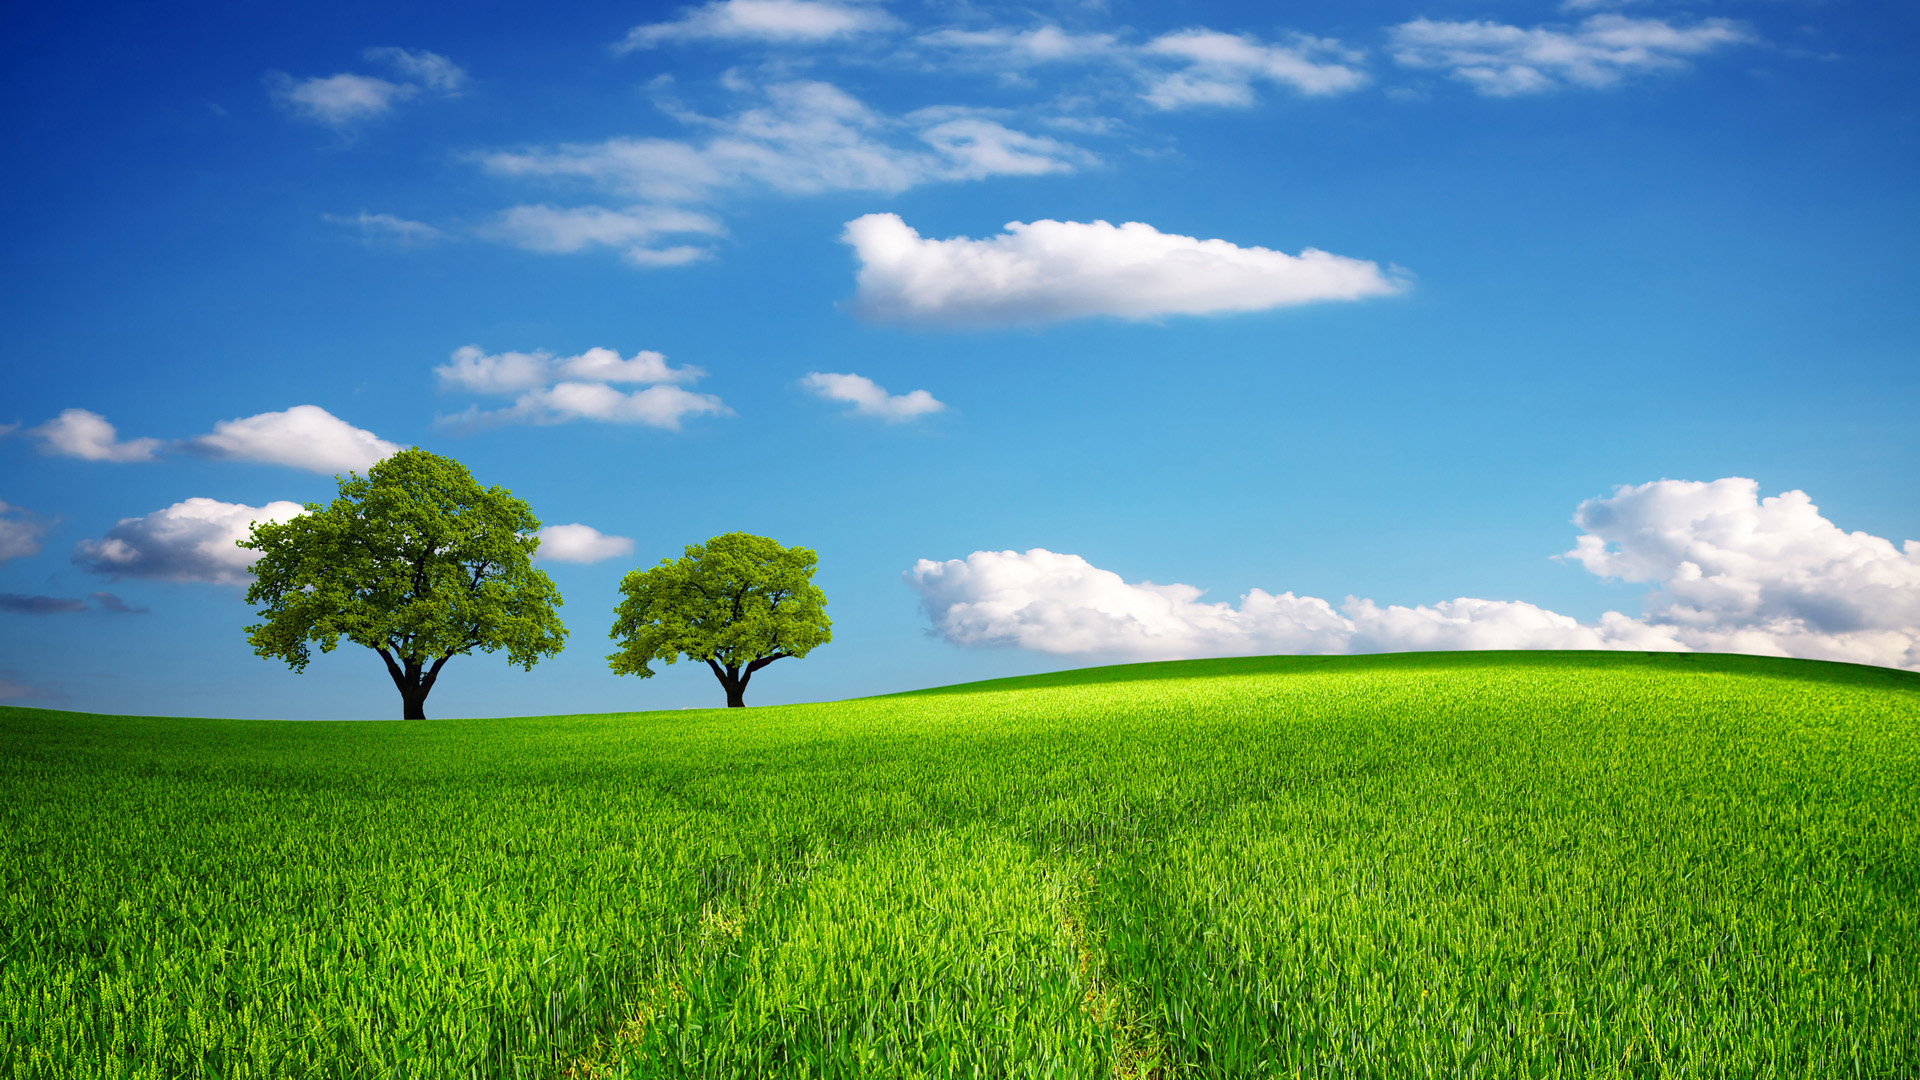
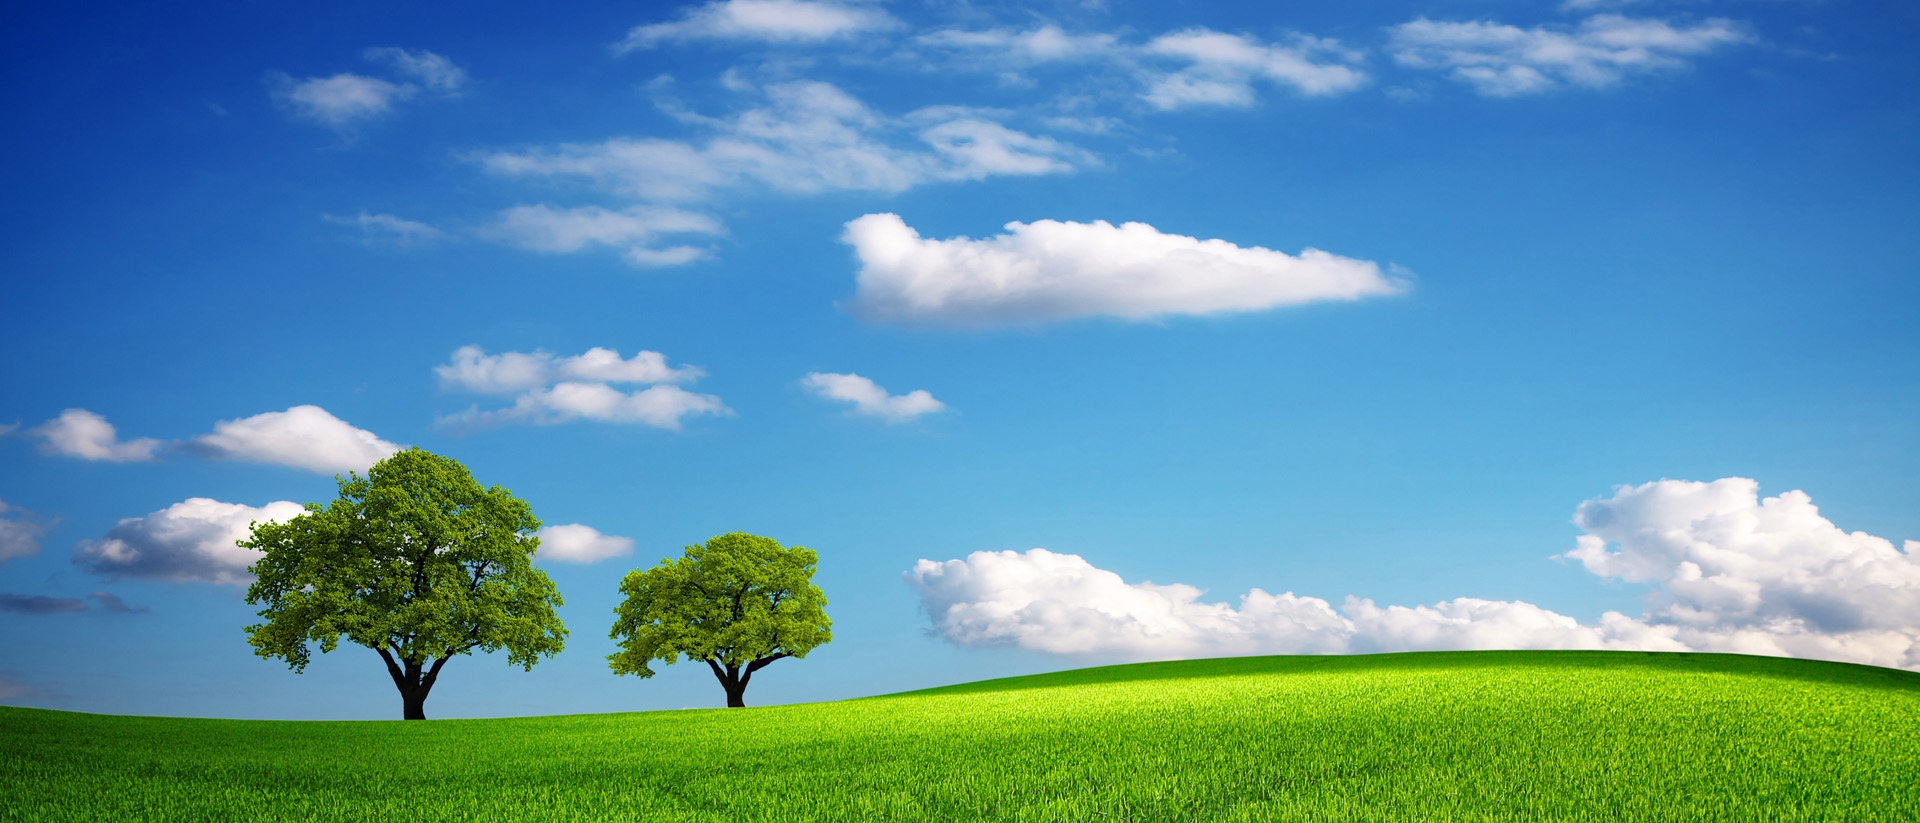
add new background

diff --git a/CSS/style.css b/CSS/style.css
@@ -1,5 +1,5 @@
 .image1{
-	height: 50%;
+	height: 20%;
 }
 .image-wraper2{
 	position: absolute;
